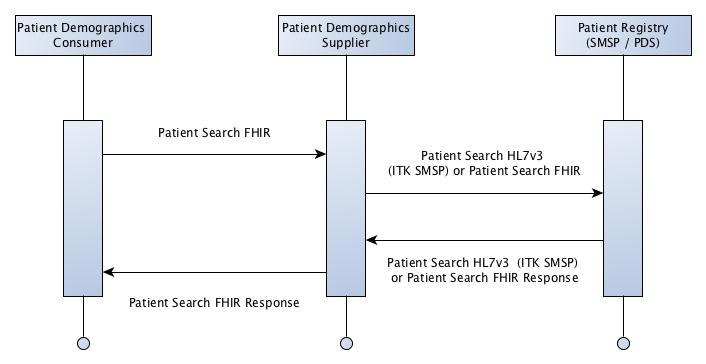
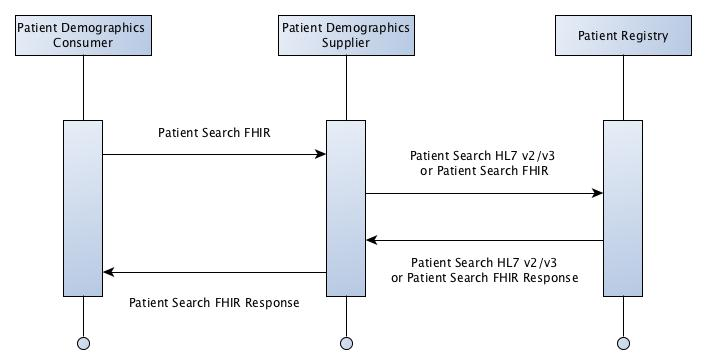
More work on patient search - moved to Hl7v2 example

Changed region(s): [[0.5297, 0.3929, 0.8414, 0.4835], [0.5297, 0.6951, 0.8102, 0.7555], [0.8102, 0.0604, 0.966, 0.1511]]

diff --git a/pages/design/design_patient_search.md b/pages/design/design_patient_search.md
@@ -386,7 +386,7 @@ caption=" Implementing Patient Search FHIR as a gateway" %}
 
 The [Gateway Pattern](http://www.enterpriseintegrationpatterns.com/patterns/messaging/MessagingGateway.html) or [Microservice API Gateway Pattern](http://microservices.io/patterns/apigateway.html) can insulate client applications from complex processing which is especially useful for web applications. This would typically be done in a Trust Integration Engine or other middleware products such as Apache Camel. Advantages include:
 * Insulates clients from the complexities of interoperability.
-* Transforms external calls into internal formats (e.g. XML ITK to FHIR JSON)
+* Transforms external calls into internal formats (e.g. HL7v2 / HL7v3 XML to FHIR JSON/XML)
 * Allows the different security models to work with each other (e.g. OAuth2 based environment working with FHIR API using certificate based authentication)
 * Simplifies client access. API Gateway can retrieve demographics from multiple sources with a single query.
 
@@ -400,14 +400,13 @@ QPD|Q22^Find Candidates^HL7|Q1520|@PID.8^F~@PID.5.1^JONES
 RCP|I|10^RD
 ```
 
-This is searching for female patients with a surname of Jones. Performing a query from
+This is searching for female patients with a surname of Jones. It is not clear from the query this is a search and also that `@PID.8^F~@PID.5.1^JONES` means a female called Jones. Also it's difficult to call from a web browser based application.
+Using a FHIR API Gateway hides this complexity from the web developer allowing them to use the $http service as shown in the example below:
 
 #### AngularJS Example 5 - Web App Client Search ####
 
 ```javascript
-angular.module('App')
-.controller('PatientDetailsController', function ($scope, $http) {
-
+angular.module('App').controller('PatientDetailsController', function ($scope, $http) {
   $scope.search = function()
   {
     $http({
